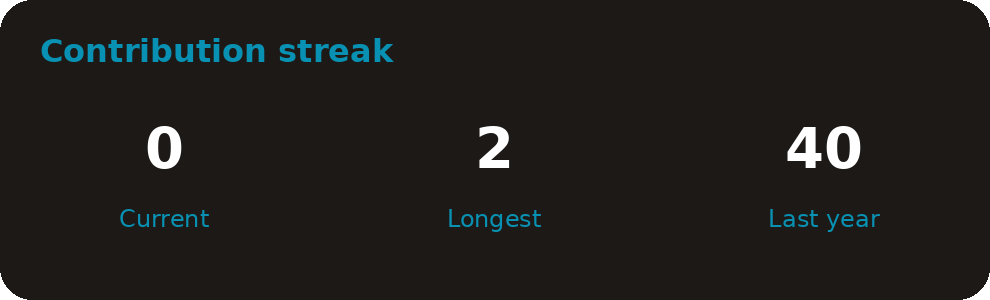
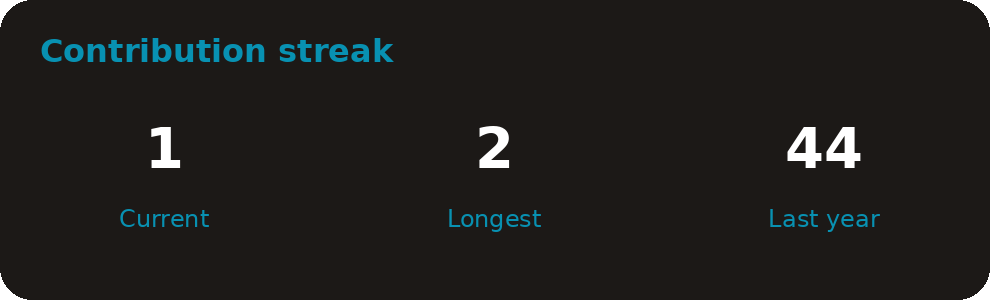
chore(profile): refresh static cards

Changed region(s): [[0.8182, 0.42, 0.8788, 0.57], [0.1515, 0.42, 0.1818, 0.57]]

diff --git a/README.md b/README.md
@@ -39,9 +39,9 @@
 ## 📊 GitHub Stats
 
 <!-- profile:stats -->
-<a href="https://github.com/sosadtsia"><img src="./assets/stats.png?v=821ec053cb4e" alt="GitHub stats" width="495" /></a>
+<a href="https://github.com/sosadtsia"><img src="./assets/stats.png?v=b4ad676e118f" alt="GitHub stats" width="495" /></a>
 <a href="https://github.com/sosadtsia"><img src="./assets/languages.png?v=e8184aa3aa84" alt="Top languages" width="320" /></a>
-<a href="https://github.com/sosadtsia"><img src="./assets/streak.png?v=847799448311" alt="Contribution streak" width="495" /></a>
+<a href="https://github.com/sosadtsia"><img src="./assets/streak.png?v=950f6bd47e77" alt="Contribution streak" width="495" /></a>
 <!-- /profile:stats -->
 
 ## 🔗 Connect With Me
